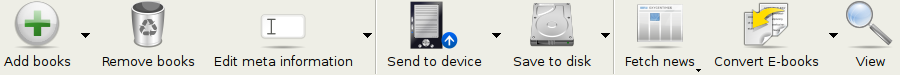
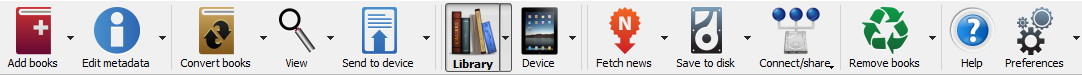
Fix #7733 (Updated gui.rst and associated image files)

diff --git a/src/calibre/manual/gui.rst b/src/calibre/manual/gui.rst
@@ -12,6 +12,7 @@ for using |app| is to first add books to the library from your hard disk.
 to its internal database. Once they are in the database, you can perform a various
 :ref:`actions` on them that include conversion from one format to another,
 transfer to the reading device, viewing on your computer, editing metadata, including covers, etc.
+Note that |app| creates copies of the files you add to it, your original files are left untouched. 
 
 The interface is divided into various sections:
 
@@ -27,7 +28,7 @@ Actions
 .. image:: images/actions.png
     :alt: The Actions Toolbar
 
-The actions toolbar provides convenient shortcuts to commonly used actions. Most of the action buttons have little arrows next to them. By clicking the arrows, you can perform variations on the default action.
+The actions toolbar provides convenient shortcuts to commonly used actions. Most of the action buttons have little arrows next to them. By clicking the arrows, you can perform variations on the default action. Please note that the actions toolbar will look slightly different depending on whether you have an ebook reader attached to your computer.
 
 .. contents::
     :depth: 1
@@ -39,99 +40,51 @@ Add books
 ~~~~~~~~~~~~~~~~~~
 .. |adbi| image:: images/add_books.png
 
-|adbi| The :guilabel:`Add books` action has three variations, accessed by the arrow next to the button.
+|adbi| The :guilabel:`Add books` action has five variations, accessed by the clicking the down arrow on the right side of the button.
 
 
     1. **Add books from a single directory**: Opens a file chooser dialog and allows you to specify which books in a directory should be added. This action is *context sensitive*, i.e. it depends on which :ref:`catalog <catalogs>` you have selected. If you have selected the :guilabel:`Library`, books will be added to the library. If you have selected the ebook reader device, the books will be uploaded to the device, and so on.
 
-    2. **Add books recursively (One book per directory)**: Allows you to choose a directory. The directory and all its sub-directories are scanned recursively and any ebooks found are added to the library.The algorithm assumes that each directory contains a single book. All ebook files in a directory are assumedto be the same book in different formats. This action is the inverse of the :ref:`Save to disk <save_to_disk_multiple>` action, i.e. you can :guilabel:`Save to disk`, delete the books and re-add them with no lost information (except date).
+    2. **Add books from directories, including sub-directories (One book per directory, assumes every ebook file is the same book in a different format)**: Allows you to choose a directory. The directory and all its sub-directories are scanned recursively and any ebooks found are added to the library. The algorithm assumes that each directory contains a single book. All ebook files in a directory are assumedto be the same book in different formats. This action is the inverse of the :ref:`Save to disk <save_to_disk_multiple>` action, i.e. you can :guilabel:`Save to disk`, delete the books and re-add them with no lost information (except date).
 
-    3. **Add books recursively (Multiple books per directory)**: Allows you to choose a directory. The directory and all its sub-directories are scanned recursively and any ebooks found are added to the library.The algorithm assumes that each directory contains many books. All ebook files with the same name in a directory are assumed to be the same book in different formats. This action is the inverse of the :ref:`Save to disk <save_to_disk_single>` action, i.e. you can :guilabel:`Save to disk`, delete the books and re-add them with no lost information (except date).
+    3. **Add books directories, including sub-directories (Multiple books per directory, assumes every ebook file is a different book)**: Allows you to choose a directory. The directory and all its sub-directories are scanned recursively and any ebooks found are added to the library. The algorithm assumes that each directory contains many books. All ebook files with the same name in a directory are assumed to be the same book in different formats. Ebooks with different names are added as different books. This action is the inverse of the :ref:`Save to disk <save_to_disk_single>` action, i.e. you can :guilabel:`Save to disk`, delete the books and re-add them with no lost information (except date).
 
+    4. **Add empty book. (Book Entry with blank formats)**: Allows you to create a blank book record. This can be used to then manually fill out the information about a book that you may not have yet in your collection. 
+    
+    5. **Add by ISBN**: Allows you to add one or more books by entering just their ISBN into a list or pasting the list of ISBNs from your clipboard. 
+    
+The :guilabel:`Add books` action can read metadata from a wide variety of e-book formats. In addition it tries to guess metadata from the filename.
+See the :ref:`config_filename_metadata` section, to learn how to configure this.
 
-The :guilabel:`Add books` action can read metadata from the following ebook formats: ``LRF, EPUB, LIT, MOBI, RTF, PDF, PRC, HTML``. In addition it tries to guess metadata from the filename. See the :ref:`config_filename_metadata` section, to learn how to configure this.
-
-To add a new format to an existing book, use the :ref:`edit_meta_information` action.
-
-.. _remove_books:
-
-Remove books
-~~~~~~~~~~~~~~~~~~~~~
-.. |rbi| image:: images/remove_books.png
-
-|rbi| The :guilabel:`Remove books` action deletes books permanently, so use it with care. It is *context sensitive*, i.e. it depends on which :ref:`catalog <catalogs>` you have selected. If you have selected the :guilabel:`Library`, books will be removed from the library. If you have selected the ebook reader device, the books will be removed from the device. To remove only a particular format for a given book use the :ref:`edit_meta_information` action.
+To add an additional format for an existing book, use the :ref:`edit_meta_information` action.
 
 .. _edit_meta_information:
 
-Edit meta information
+Edit metadata
 ~~~~~~~~~~~~~~~~~~~~~~~~~~~~~~~
 .. |emii| image:: images/edit_meta_information.png
 
-|emii| The :guilabel:`Edit meta information` action has two variations, accessed by the arrow next to the button.
+|emii| The :guilabel:`Edit metadata` action has six variations, which can be accessed by clicking the down arrow on the right side of the button.
 
     1. **Edit metadata individually**: This allows you to edit the metadata of books one-by-one, with the option of fetching metadata, including covers from the internet. It also allows you to add/remove particular ebook formats from a book. For more detail see :ref:`metadata`.
-
     2. **Edit metadata in bulk**: This allows you to edit common metadata fields for large numbers of books simulataneously. It operates on all the books you have selected in the :ref:`Library view <search_sort>`.
+    3. **Download metadata and covers**: Downloads metadata and covers (if available), for the books that are selected in the book list.
+    4. **Download only metadata**: Downloads only metadata (if available), for the books that are selected in the book list.
+    5. **Download only covers**: Downloads only covers (if available), for the books that are selected in the book list.
+    6. **Download only social metadata**: Downloads only social metadata such as tags and reviews (if available), for the books that are selected in the book list.
+    7. **Merge Book Records**: Gives you the capability of merging the metadata and formats of two or more book records together. You can choose to either delete or keep the records that were not clicked first.
 
-.. _send_to_device:
-
-Send to device
-~~~~~~~~~~~~~~~~~~~~~~~~
-.. |stdi| image:: images/send_to_device.png
-
-|stdi| The :guilabel:`Send to device` action has two variations, accessed by the arrow next to the button.
-
-    1. **Send to main memory**: The selected books are transferred to the main memory of the ebook reader.
-    2. **Send to card**: The selected books are transferred to the storage card on the ebook reader.
-
-You can control the file name and folder structure of files sent to the device by setting up a template in
-:guilabel:`Preferences->Import/Export->Sending books to devices`. Also see :ref:`templatelangcalibre`.
-
-.. _save_to_disk:
-
-Save to disk
-~~~~~~~~~~~~~~~~~~~~~~~~~
-.. |svdi| image:: images/save_to_disk.png
-
-|svdi| The :guilabel:`Save to disk` action has two variations, accessed by the arrow next to the button.
-
-.. _save_to_disk_multiple:
-
-    1. **Save to disk**: This will save the selected books to disk organized in directories. The directory structure looks like::
-
-        Author
-            Title
-                Book Files
-            
-.. _save_to_disk_single:
-
-    2. **Save to disk in a single directory**: The selected books are saved to disk in a single directory.
-            
-All available formats as well as metadata is stored to disk for each selected book. Metadata is stored in an OPF file.
-
-Saved books can be re-imported to the library without any loss of information by using the :ref:`Add books <add_books>` action.
-
-You can control the file name and folder structure of files saved to disk by setting up a template in
-:guilabel:`Preferences->Import/Export->Saving books to disk`. Also see :ref:`templatelangcalibre`.
-
-
-.. _fetch_news:
-
-Fetch news
-~~~~~~~~~~~~~~~~~
-.. |fni| image:: images/fetch_news.png
-
-|fni| The :guilabel:`Fetch news` action downloads news from various websites and converts it into an ebook that can be read on your ebook reader. Normally, the newly created ebook is added to your ebook library, but if an ebook reader is connected at the time the download finishes, the news is uploaded to the reader directly.
-            
-The :guilabel:`Fetch news` action uses simple recipes (10-15 lines of code) for each news site. To learn how to create recipes for your own news sources, see :ref:`news`.
-
+    
 .. _convert_ebooks:
 
 Convert e-books
 ~~~~~~~~~~~~~~~~~~~~~~
 .. |cei| image:: images/convert_ebooks.png
 
-|cei| Ebooks can be converted from a number of formats into the LRF format (for the SONY Reader). Note that ebooks you purchase will typically have `Digital Rights Management <http://bugs.calibre-ebook.com/wiki/DRM>`_ *(DRM)*. |app| will not convert these ebooks. For many DRM formats, it is easy to remove the DRM, but as this is illegal, you have to find tools to liberate your books yourself and then use |app| to convert them.
+|cei| Ebooks can be converted from a number of formats into whatever format your e-book reader prefers.
+Note that ebooks you purchase will typically have `Digital Rights Management <http://bugs.calibre-ebook.com/wiki/DRM>`_ *(DRM)*.
+|app| will not convert these ebooks. For many DRM formats, it is easy to remove the DRM, but as this may be illegal,
+you have to find tools to liberate your books yourself and then use |app| to convert them.
 
 For most people, conversion should be a simple 1-click affair. But if you want to learn more about the conversion process, see :ref:`conversion`.
             
@@ -141,29 +94,180 @@ The :guilabel:`Convert E-books` action has three variations, accessed by the arr
                 
     2. **Bulk convert**: This allows you to specify options only once to convert a number of ebooks in bulk.
     
-    3. **Create catalog**: This action allows you to generate a complete listing with all metadata of the books in your library, in several formats, like XML, CSV, EPUB and MOBI. The catalog will contain all the books showing in the library view currently, so you can use the search features to limit the books to be catalogued. In addition, if you select multiple books using the mouse, only those books will be added to the catalog. If you generate the catalog in an e-book format such as EPUB or MOBI, the next time you connect your e-book reader, the catalog will be automatically sent to the device. For details on how catalogs work, see `here <http://www.mobileread.com/forums/showthread.php?p=755468#post755468>`_.
-                                            
+    3. **Create catalog**: This action allows you to generate a complete listing with all metadata of the books in your library,
+       in several formats, like XML, CSV, BiBTeX, EPUB and MOBI. The catalog will contain all the books showing in the library view currently,
+       so you can use the search features to limit the books to be catalogued. In addition, if you select multiple books using the mouse,
+       only those books will be added to the catalog. If you generate the catalog in an e-book format such as EPUB or MOBI,
+       the next time you connect your e-book reader, the catalog will be automatically sent to the device.
+       For details on how catalogs work, see `here <http://www.mobileread.com/forums/showthread.php?p=755468#post755468>`.
+
 .. _view:
 
 View
 ~~~~~~~~~~~
 .. |vi| image:: images/view.png
 
-|vi| The :guilabel:`View` action displays the book in an ebook viewer program. |app| has a builtin viewer for the LRF format. For other formats it uses the default operating system application. If a book has more than one format, you can view a particular format by clicking the arrow next to the :guilabel:`View` button.
+|vi| The :guilabel:`View` action displays the book in an ebook viewer program. |app| has a builtin viewer for the most e-book formats.
+For other formats it uses the default operating system application. You can configure which formats should open with the internal viewer via
+Preferences->Behavior. If a book has more than one format, you can view a particular format by clicking the down arrow
+on the right of the :guilabel:`View` button.
 
+    
+.. _send_to_device:
+
+Send to device
+~~~~~~~~~~~~~~~~~~~~~~~~
+.. |stdi| image:: images/send_to_device.png
+
+|stdi| The :guilabel:`Send to device` action has eight variations, accessed by clicking the down arrow on the right of the button.
+
+    1. **Send to main memory**: The selected books are transferred to the main memory of the ebook reader.
+    2. **Send to card (A)**: The selected books are transferred to the storage card (A) on the ebook reader.
+    3. **Send to card (B)**: The selected books are transferred to the storage card (B) on the ebook reader.
+    4. **Send and delete from library>**: The selected books are transferred to the selected storage location on the device, and then **deleted** from the Library.
+    5. **Send Specific format>**: The selected books are transferred to the selected storage location on the device, in the format that you specify.
+    6. **Eject device**: The device is detached from |app|.
+    7. **Set default send to device action>**: This action allows you to Specify which of the option 1) through 6) above will be the default action when you click the main button.
+    8. **Fetch Annotations**: This is an experimental action which will transfer annotations you may have made on an ebook on your device, and add those annotations to the comments metadata of the book in the |app| library
+
+You can control the file name and folder structure of files sent to the device by setting up a template in
+:guilabel:`Preferences->Import/Export->Sending books to devices`. Also see :ref:`templatelangcalibre`.
+    
+.. _fetch_news:
+
+Fetch news
+~~~~~~~~~~~~~~~~~
+.. |fni| image:: images/fetch_news.png
+
+|fni| The :guilabel:`Fetch news` action downloads news from various websites and converts it into an ebook that can be read on your ebook reader. Normally, the newly created ebook is added to your ebook library, but if an ebook reader is connected at the time the download finishes, the news is also uploaded to the reader automatically.
+            
+The :guilabel:`Fetch news` action uses simple recipes (10-15 lines of code) for each news site. To learn how to create recipes for your own news sources, see :ref:`news`.
+
+The :guilabel:`Fetch news` action has three variations, accessed by clicking the down arrow on the right of the button.
+    
+    1. **Schedule news download**: This action allows you to schedule the download of of your selected news sources from a list of hundreds of available.  Scheduling can be set individually for each news source you select and the scheduling is flexible allowing you to select specific days of the week or a frequency of days between downloads.
+    2. **Add a custom news service**: This action allows you to create a simple recipe for downloading news from a custom news site that you wish to access.  Creating the recipe can be as simple as specifying an RSS news feed URL, or you can be more prescriptive by creating python based code for the task, see :ref:`news`.
+    3. **Download all scheduled news sources**:  This action causes |app| to immediately begin to download all news sources that you have previously scheduled.
+
+
+.. _library:
+
+Library
+~~~~~~~~~~~~~~~~~
+.. |lii| image:: images/library.png
+
+|lii| The :guilabel: `Library` action allows you to create, switch between, rename or delete a Library.  |app| allows you to create as many libraries as you wish. You coudl for instance create a fiction library, a non fiction library, a foreign language library a project library, basically any structure that suits your needs. Libraries are the highest organizational structure within |app|, each library has its own set of books, tags, categories and base storage location.
+
+    1. **Switch\Create library..**: This action allows you to; a) connect to a pre-existing |app| library at another location from your currently open library, b) Create and empty library at a nw location or, c) Move the current Library to a newly specified location.
+    2. **Quick Switch>**: This action allows you to switch between libraries that have been registered or created within |app|.
+    3. **Rename Library>**: This action allows you to rename a Library.
+    4. **Delete Library>**: This action allows you to **permanenetly delete** a Library.
+    5. **<calibre library>**: Actions 5, 6 etc .. give you immediate switch access between multiple Libraries that you have created or attached to.
+
+.. _device:
+
+Device
+~~~~~~~~~~~~~~~~~
+.. |dvi| image:: images/device.png
+
+|dvi| The :guilabel:`Device` action allows you to view the books in the main memory or storage cards of your device, or to eject the device (detach it from |app|).
+This icon shows up automatically on the main |app| toolbar when you connect a supported device. You can click on it to see the books on your device. You can also drag  and drop books from your |app| library onto the icon to transfer them to your device. Conversely, you can drag and drop books from your device onto the |app| icon on the toolbar to transfer books from your device to the |app| library. 
+
+    
+.. _save_to_disk:
+
+Save to disk
+~~~~~~~~~~~~~~~~~~~~~~~~~
+.. |svdi| image:: images/save_to_disk.png
+
+|svdi| The :guilabel:`Save to disk` action has five variations, accessed by the arrow next to the button.
+
+.. _save_to_disk_multiple:
+
+    1. **Save to disk**: This will save the selected books to disk organized in directories. The directory structure looks like::
+
+            Author_(sort)
+                Title
+                    Book Files
+                
+    You can control the file name and folder structure of files saved to disk by setting up a template in
+    :guilabel:`Preferences->Import/Export->Saving books to disk`. Also see :ref:`templatelangcalibre`.
+            
+.. _save_to_disk_single:
+
+    2. **Save to disk in a single directory**: The selected books are saved to disk in a single directory.
+            
+    For 1. and 2. All available formats as well as metadata is stored to disk for each selected book. Metadata is stored in an OPF file.
+
+    Saved books can be re-imported to the library without any loss of information by using the :ref:`Add books <add_books>` action.
+
+    3. **Save only *<your preferred>* format to disk**: The selected books are saved to disk in the directory structure as shown in (1.) but only in your preferred ebook format you can set <your preferred> format in :guilabel:`Preferences->Behaviour->Preferred output format`
+
+    4. **Save only *<your preferred>* format to disk in a single directory**: The selected books are saved to disk in a single directory but only in <your preferred> ebook format you can set <your preferred> format in :guilabel:`Preferences->Behaviour->Preferred output format`
+
+    5. **Save single format to disk ..**: The selected books are saved to disk in the directory structure as shown in (1.) but only in the format you select from the pop-out list.  There are currently 35 formats available and new ones are being added all the time.
+
+.. _connect_share:
+
+Connect/Share
+~~~~~~~~~~~~~~~~~
+.. |csi| image:: images/connect_share.png
+
+|csi| The :guilabel:`Connect/Share` action allows you to manually connect to a device or folder on your computer, it also allows you to set up you |app| library for access via a web browser, or email.
+
+    The :guilabel:`Connect/Share` action has four variations, accessed by clicking the down arrow on the right of the button.
+    
+    1. **Connect to folder**: This action allows you to connect to any folder on your computer as though it were a device and use all the facilities |app| has for devices with that folder. Useful if your device cannot be supported by |app| but is available as a USB disk.
+    
+    2. **Connect to iTunes**: Allows you to connect to your iTunes books database as though it were a device. Once the books are sent to iTunes, you can then use iTunes to make them available on your various iDevices. Useful if you would rather not have |app| send books to your iDevice directly. 
+    
+    3. **Start Content Server**: This action causes |app| to start up its built-in web server.  When this is started, your |app| library will be accessible via a web browser from the internet (if you choose). You can configure how the web server is accessed by setting preferences at :guilabel:`Preferences->Sharing->Sharing over the net`
+    
+    4. **Setup email based sharing of books**: This action allows you to setup |app| to share books (and news feeds) by email.  After setting up email addresses for this option |app| will send news updates and book updates to the entered email addresses. You can configure how the |app| sends email by setting preferences at :guilabel:`Preferences->Sharing->Sharing books by email`. Once you have setup one or more email addresses, this menu entry get replaced by menu entries to send books to the setup email addresses. 
+
+.. _remove_books:
+
+Remove books
+~~~~~~~~~~~~~~~~~~~~~
+.. |rbi| image:: images/remove_books.png
+
+|rbi| The :guilabel:`Remove books` action **deletes books permanently**, so use it with care. It is *context sensitive*, i.e. it depends on which :ref:`catalog <catalogs>` you have selected. If you have selected the :guilabel:`Library`, books will be removed from the library. If you have selected the ebook reader device, the books will be removed from the device. To remove only a particular format for a given book use the :ref:`edit_meta_information` action.  Remove books also has five variations which can be accessed by clicking the down arrow on the right side of the button.
+
+    1. **Remove Selected Books**: Allows you to **permanently** remove all books that are selected in the book list. 
+    
+    2. **Remove files of a specified format from selected books..**: Allows you to **permanently** remove ebook files of a specified format, from books that are selected in the book list.
+    
+    3. **Remove all files of a specified format, except..**: Allows you to **permanently** remove ebook files of a multiple formats except a given format, from books that are selected in the book list.
+    
+    4. **Remove covers from selected books**: Allows you to **permanently** remove cover images files, from books that are selected in the book list.
+    
+    5. **Remove matching books from device**: Allows you to remove ebook files from a connected device, that match the books that are selected in the book list.
+
+.. note::
+    Note that when you use Remove books to delete books from your |app| library, the book record is permanently deleted, but, on (Windows and OS X) the files are placed into the recycle bin, so you can recover them if you change your mind.
+
+.. _configuration:
+
+Preferences
+---------------
+.. |cbi| image:: images/preferences.png
+
+The Preferences Action allows you to change the way various aspects of |app| work. To access it, click the |cbi|.
+    
 .. _catalogs:
 
 Catalogs
 ----------
 .. image:: images/catalogs.png
 
-A *catalog* is a collection of books. |app| can manage three different catalogs:
+A *catalog* is a collection of books. |app| can manage two types of different catalogs:
                 
-    1. **Library**: This is a collection of books stored in a database file on your computers harddisk.
+    1. **Library**: This is a collection of books stored in your |app| library on your computer
                 
-    2. **Reader**:  This is a collection of books stored in the main memory of your ebook reader. It will be available when you connect the reader to your computer.
-                
-    3. **Card**: This is a collection of books stored on the storage card in your reader.
+    2. **Device**:  This is a collection of books stored in the main memory of your ebook reader. It will be available when you connect the reader to your computer.
+       - In addition, you can see the books on the storage card (if any) in your reader device.
+
+Many operations, like Adding books, deleting, viewing, etc. are context sensitive. So, for example, if you click the View button when you have the **Device** catalog selected, |app| will open the files on the device to view. If you have the **Library** catalog selected, files in your |app| library will be opened instead.
 
 .. _search_sort:
 
@@ -274,28 +378,12 @@ Searching for ``no`` or ``unchecked`` will find all books with ``No`` in the col
     
     :guilabel:`Advanced Search Dialog`
 
-You can test for the number of items in multiple-value columns, such as tags, formats, authors, and tags-like custom columns. This is done using a syntax very similar to numeric tests (discussed above), except that the relational operator begins with a ``#`` character. For example::
-
-    tags:#>3 will give you books with more than three tags
-    tags:#!=3 will give you books that do not have three tags
-    authors:#=1 will give you books with exactly one author
-    #cust:#<5 will give you books with less than five items in custom column #cust
-    formats:#>1 will give you books with more than one format
-
 Saving searches
 -----------------
 
 |app| has a useful feature, it allows you to save a search you use frequently under a special name and then re-use that search with a single click. To do this, create your search, either by typing it in the search bar, or using the Tag Browser. Then, type the name you would like to give to the search in the Saved Searches box next to the search bar and click the plus icon next to the saved searches box to save the search. 
 
 Now, you can access your saved search in the Tag Browser under "Searches". A single click will allow you to re-use any arbitrarily complex search easily, without needing to re-create it.
-
-.. _configuration:
-
-Preferences
----------------
-The Preferences dialog allows you to change the way various aspects of |app| work. To access it, click the |cbi|.
-
-.. |cbi| image:: images/configuration.png
 
 .. _config_filename_metadata:
 

diff --git a/src/calibre/manual/customize.rst b/src/calibre/manual/customize.rst
@@ -104,6 +104,8 @@ A Hello World GUI plugin
 
 Here's a simple Hello World plugin for the |app| GUI. It will cause a box to popup with the message "Hellooo World!" when you press Ctrl+Shift+H
 
+.. note:: Only available in calibre versions ``>= 0.7.32``.
+
 .. code-block:: python
 
     from calibre.customize import InterfaceActionBase
